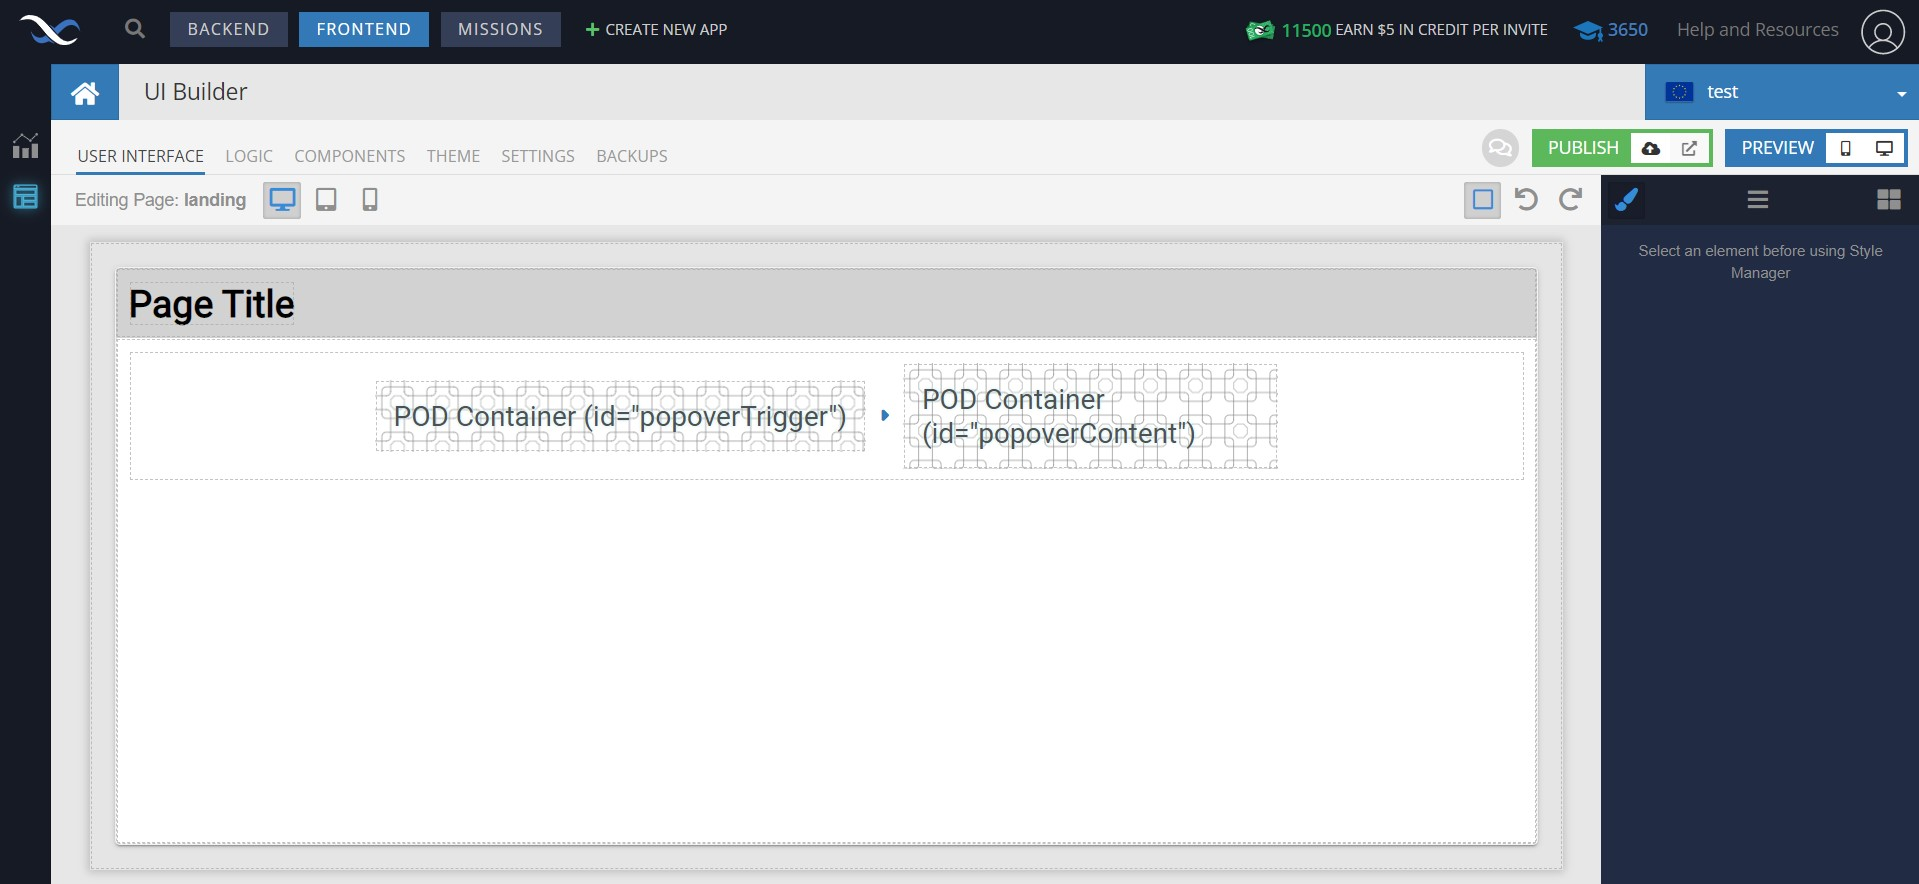
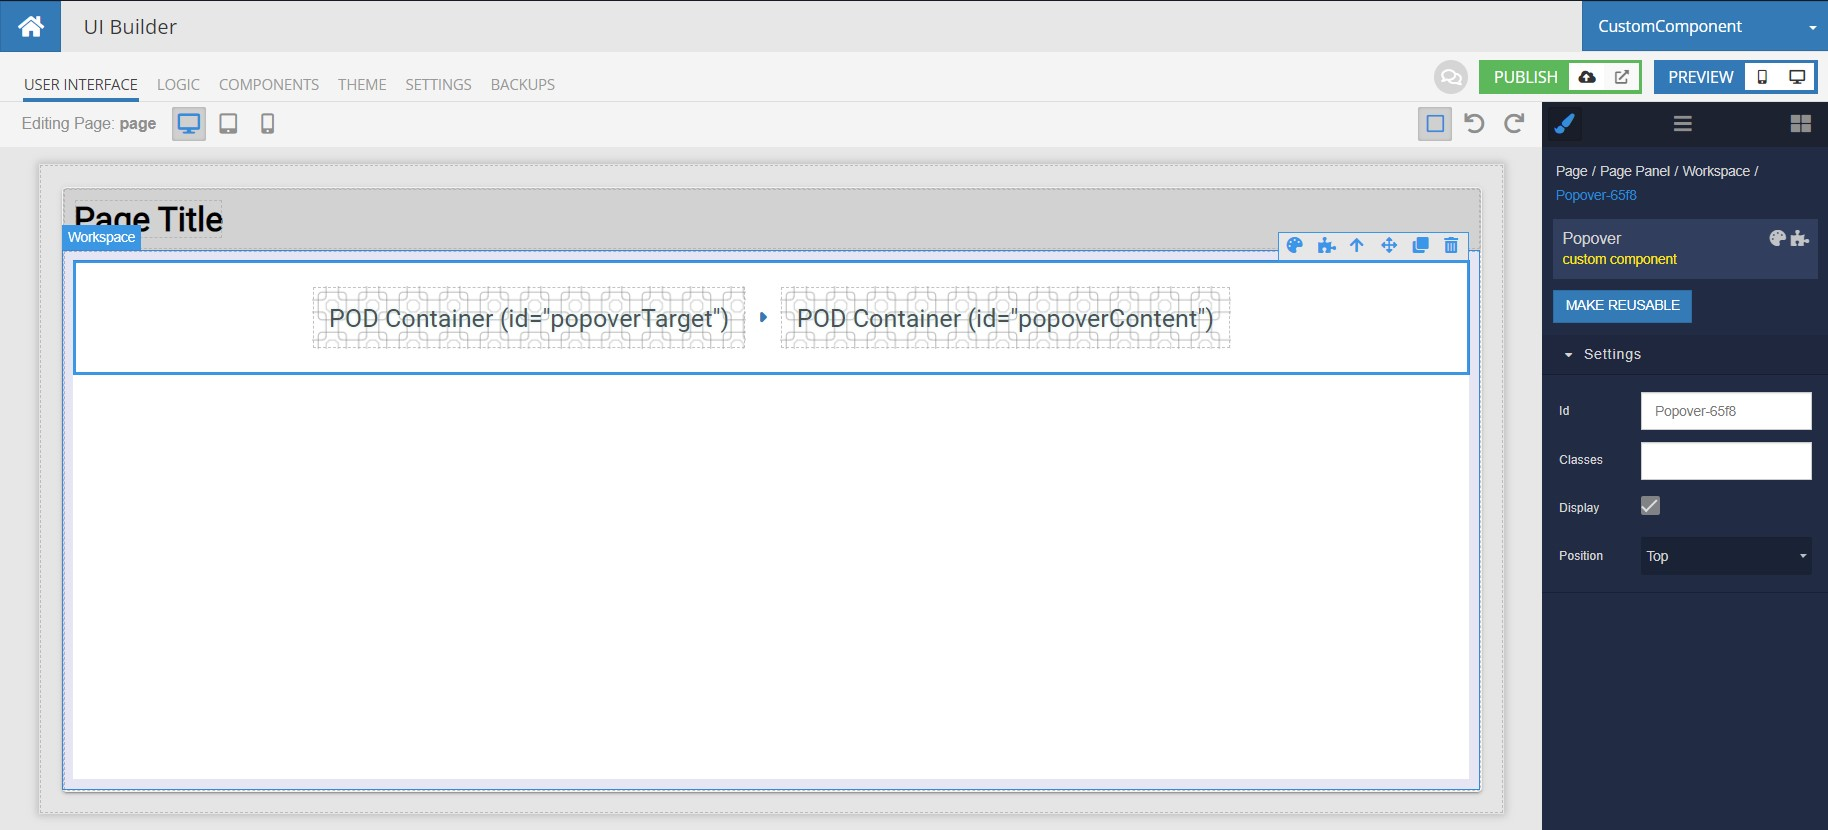
rename trigger to target

Changed region(s): [[0.0, 0.0, 1.0, 1.0]]

diff --git a/components/bl-popover-component/preview.html b/components/bl-popover-component/preview.html
@@ -1,1 +1,1 @@
-<div data-module-type="system" data-module-id="block" data-display data-uid="498147b32a0bc92baae3df86e99d7319" style="display:flex;flex-shrink:0;flex-direction:row;align-items:center;justify-content:center;align-self:center;"></div><div data-module-type="system" data-module-id="block" data-display data-uid="76456595e4e3b7eaa6ee5aaaac3c0607" style="display:flex;flex-shrink:0;padding:10px;min-height:100px;min-width:100px;flex-direction:row;align-items:center;justify-content:center;"><div data-module-type="system" data-module-id="block" data-display id="popoverTrigger" data-uid="f1bac586857f6846d1ca7ab7f71ba20b" data-pod-container="true" data-data-container="true" style="display:flex;flex-shrink:0;flex-direction:column;align-self:center;"></div><i data-icon="arrow_right" data-size="small" data-module-type="system" data-module-id="icon" data-display data-uid="dfc41af1608e65b8a5d688158e51abcf" style="align-self:center;font-size:30px;margin:0 0 0;"></i><div data-module-type="system" data-module-id="block" data-display id="popoverContent" data-uid="1aec8dec2faf84f92fd9b717e81db234" data-pod-container="true" data-data-container="true" style="display:flex;flex-shrink:0;flex-direction:column;align-self:center;"></div></div>
+<div data-module-type="system" data-module-id="block" data-display data-uid="498147b32a0bc92baae3df86e99d7319" style="display:flex;flex-shrink:0;flex-direction:row;align-items:center;justify-content:center;align-self:center;"></div><div data-module-type="system" data-module-id="block" data-display data-uid="76456595e4e3b7eaa6ee5aaaac3c0607" style="display:flex;flex-shrink:0;padding:10px;min-height:100px;min-width:100px;flex-direction:row;align-items:center;justify-content:center;"><div data-module-type="system" data-module-id="block" data-display id="popoverTarget" data-uid="f1bac586857f6846d1ca7ab7f71ba20b" data-pod-container="true" data-data-container="true" style="display:flex;flex-shrink:0;flex-direction:column;align-self:center;"></div><i data-icon="arrow_right" data-size="small" data-module-type="system" data-module-id="icon" data-display data-uid="dfc41af1608e65b8a5d688158e51abcf" style="align-self:center;font-size:30px;margin:0 0 0;"></i><div data-module-type="system" data-module-id="block" data-display id="popoverContent" data-uid="1aec8dec2faf84f92fd9b717e81db234" data-pod-container="true" data-data-container="true" style="display:flex;flex-shrink:0;flex-direction:column;align-self:center;"></div></div>

diff --git a/components/bl-popover-component/src/index.js b/components/bl-popover-component/src/index.js
@@ -5,9 +5,9 @@ const { cn } = BackendlessUI.CSSUtils;
 
 export default function Popover({ component, eventHandlers, pods }) {
   const { display, style, classList, position } = component;
-  const { onTriggerClick } = eventHandlers;
+  const { onTargetClick } = eventHandlers;
 
-  const popoverTrigger = pods['popoverTrigger'];
+  const popoverTarget = pods['popoverTarget'];
   const popoverContent = pods['popoverContent'];
 
   const [isOpen, setIsOpen] = useState(false);
@@ -24,8 +24,8 @@ export default function Popover({ component, eventHandlers, pods }) {
       <div
         ref={ contentElement }
         className="content-container"
-        onClick={ () => onTriggerClick({ isOpen }) }>
-        { popoverTrigger.render() }
+        onClick={ () => onTargetClick({ isOpen }) }>
+        { popoverTarget.render() }
       </div>
 
       { isOpen && (

diff --git a/components/bl-popover-component/README.md b/components/bl-popover-component/README.md
@@ -12,9 +12,9 @@ The component allows you to render a popup window in your UI-Builder application
 
 ## Events
 
-| Name             | Triggers                    | Context Blocks     |
-| ---------------- | --------------------------- | ------------------ |
-| On Trigger Click | when user clicks on trigger | Is Open: `Boolean` |
+| Name            | Triggers                   | Context Blocks     |
+| --------------- | -------------------------- | ------------------ |
+| On Target Click | when user clicks on target | Is Open: `Boolean` |
 
 ## Actions
 
@@ -47,8 +47,8 @@ The component allows you to render a popup window in your UI-Builder application
 1. Add component Popover in page
     ![add component in page](./example-images/add-in-page.jpg)
 
-2. Add in popover trigger and content
-    ![add trigger and content](./example-images/add-triger-and-content.jpg)
+2. Add in popover target and content
+    ![add target and content](./example-images/add-target-and-content.jpg)
 
 3. Add logic for Popover "On Button Click" event
     ![add logic for on button click](./example-images/on-button-click-event.jpg)
